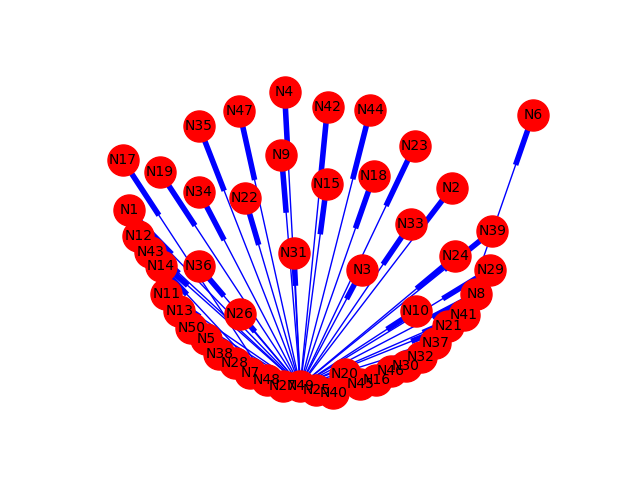
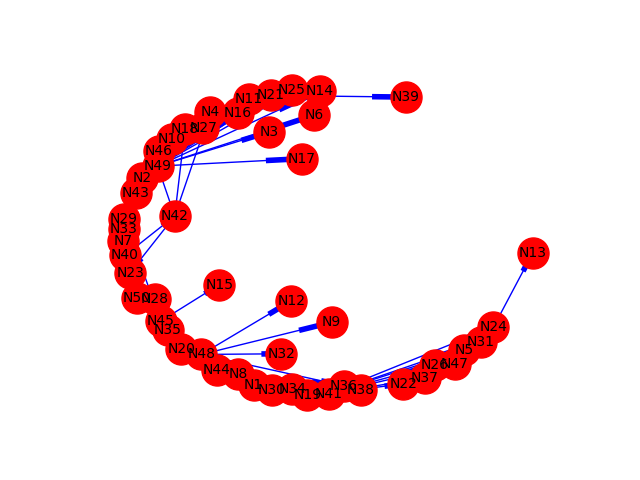
now got the graph.copy() to work, still uncovering hidden issues

Changed region(s): [[0.1562, 0.1562, 0.875, 0.875], [0.7812, 0.1875, 0.875, 0.3125]]

diff --git a/grapho.py b/grapho.py
@@ -45,25 +45,25 @@ def compute(infile, outfile):
     initGraph = addRandomVarNodesToGraph(newGraph, randomVars)
     optimGraph = optimizeGraph(initGraph, dataframe)
     oshow.plotGraph(optimGraph, outfile)
-    oshow.toString(optimGraph)
     oshow.write(outfile, optimGraph)
+    # oshow.toString(optimGraph)
     pass
 
 # OPTIMIZE
 # loop a limited number of times morphing graph into higher scoring shape
 # a minimum score gain is gauged before deciding to evolve the graph
 def optimizeGraph(graph, dataframe):
-    maxTries = 10
+    maxTries = 3
     attempt = 0
     initialScore = oscore.getScore(graph, dataframe, attempt)
-    bestGraph = graph
+    bestGraph = graph.copy()
     for trie in range(0, maxTries):
         attempt = attempt + 1
         for node in graph.nodes():
             bestGraph = getChangedGraph(bestGraph, node, dataframe)
     finalScore = oscore.getScore(bestGraph, dataframe, attempt)
     print "****** INITIAL SCORE: " + str(int(initialScore)) + ", FINAL SCORE: " + str(int(finalScore)) + " ******"
-    return graph
+    return bestGraph
 
 # MORPH
 # greedy iteration over the graph looking for a better shape than current
@@ -73,35 +73,45 @@ def getChangedGraph(graph, fromNode, dataframe):
     maxTries = 10
     attempt = 0
     minScoreGain = 10
-    initialGraph = graph
-    bestMoveGaph = graph    # greedily find the best graph after maxTries
+    initialGraph = graph.copy()
+    bestMoveGaph = graph.copy()    # greedily find the best graph after maxTries
     while True:
         randomNode = choice(graph.nodes())
         attempt = attempt + 1
         print "Attempt=" + str(attempt) + " at optimizing from node=" + str(fromNode)
         if attempt>maxTries:
             if int(oscore.getScore(bestMoveGaph, dataframe, attempt)) > int(oscore.getScore(initialGraph, dataframe, attempt)):
+                print "FOUND a graph optimization from node=" + str(fromNode) + "... " + str(oshow.toEdgesString(bestMoveGaph))
                 return bestMoveGaph # after many attempts, return the bestMoveGaph
             else:
+                print "NO better graph found from node=" + str(fromNode) + "... " + str(oshow.toEdgesString(initialGraph))
                 return initialGraph
-        if randomNode!=fromNode:   # connect only to a different node
-            if not graph.has_edge(fromNode, randomNode):     # connect only if the nodes are not connected either way
-                if not graph.has_edge(randomNode, fromNode):  # connect only if the nodes are not connected either way
-                    if len(oxnet.getRandomVarParents(randomNode, graph))==0:  # allow one parent for now
-                        tentativeGraph = graph
-                        tentativeGraph.add_edge(fromNode, randomNode)
-                        tentativeScore = oscore.getScore(tentativeGraph, dataframe, attempt)
-                        currentBestScore = oscore.getScore(bestMoveGaph, dataframe, attempt)
-                        delta = int(tentativeScore) - int(currentBestScore)
-                        print ">Evaluating new graph for better score: from=" + str(int(currentBestScore)) + " to=" + str(int(tentativeScore)) + \
-                              " GAIN=" + str(delta) + " adding EDGE=" + str(fromNode) +"-"+ str(randomNode)
-                        if int(delta) > int(minScoreGain):
-                            cycles = list(nx.simple_cycles(tentativeGraph))
-                            print "Potential Graph Cycles: " + str(cycles)
-                            if len(cycles)==0:
-                                if nx.is_directed_acyclic_graph(tentativeGraph)==False:
-                                    print "==> Switching graph candidate!"
-                                    bestMoveGaph = tentativeGraph
+        # if randomNode!=fromNode:   # connect only to a different node
+        if not graph.has_edge(fromNode, randomNode):     # connect only if the nodes are not connected either way
+            if not graph.has_edge(randomNode, fromNode):  # connect only if the nodes are not connected either way
+                if len(oxnet.getRandomVarParents(randomNode, graph))==0:  # allow one parent for now
+                    tentativeGraph = bestMoveGaph.copy()
+                    tentativeGraph.add_edge(fromNode, randomNode)
+                    print "TENTATIVE--> NODES: " + str(tentativeGraph.nodes()) + ", EDGES: " + str(tentativeGraph.edges())
+                    tentativeScore = oscore.getScore(tentativeGraph, dataframe, attempt)
+                    currentBestScore = oscore.getScore(bestMoveGaph, dataframe, attempt)
+                    delta = int(tentativeScore) - int(currentBestScore)
+                    print ">Evaluating new graph for better score: from=" + str(int(currentBestScore)) + " to=" + str(int(tentativeScore)) + \
+                          " GAIN=" + str(delta) + " adding EDGE=" + str(fromNode) +"-"+ str(randomNode)
+                    # if int(delta) > int(minScoreGain):
+                    cycles = list(nx.simple_cycles(tentativeGraph))
+                    print "Potential Graph Cycles: " + str(cycles)
+                    if len(cycles)==0:
+                        # if nx.is_directed_acyclic_graph(tentativeGraph)==False:
+                        print "==> Switching graph candidate!"
+                        bestMoveGaph = tentativeGraph.copy()
+                        # else: print "Did not adopt because it would cause a cycle in the graph..."
+                    # else: print "Not enough score gain to make the change..."
+                else: print "Did not pursue because the toNode already has a parent..."
+            else: print "Did not tackle because the nodes already shared an edge..."
+        else: print "Did not tackle because the nodes already shared an edge..."
+        # else: print "Did not try to connect same to/from nodes..."
+
 
 # ADD RANDOM VARIABLE NODES
 # len()

diff --git a/graphoshow.py b/graphoshow.py
@@ -34,15 +34,20 @@ import graphoxnet as oxnet
 
 # PRINT nodes, graphs, edges, neighbors
 def toString(graph):
-    print "GRAPH: {} ".format(graph.graph)
-    print "NODES: {}".format(graph.nodes())
-    print "EDGES: {}".format(graph.edges())
+    s = ""
+    s = s + "GRAPH: {} ".format(graph.graph)
+    s = s + "NODES: {}".format(graph.nodes)
+    s = s + "EDGES: {}".format(graph.edges)
     for node in graph.nodes():
-        print "{} EDGES: {}".format(node, graph[node])
-        print "{} NEIGHTBORS: {}".format(node, graph.neighbors(node))
+        s = s + "{} EDGES: {}".format(node, graph[node])
+        s = s + "{} NEIGHTBORS: {}".format(node, graph.neighbors(node))
+    return s
 
 def toGraphString(graph):
-    print "GRAPH: {} ".format(graph.graph)
+    return "GRAPH: {} ".format(graph.graph())
+
+def toEdgesString(graph):
+    return "EDGES: {} ".format(graph.edges())
 
 # PLOT graph: nodes, edges, labesl
 # https://stackoverflow.com/questions/8213522/when-to-use-cla-clf-or-close-for-clearing-a-plot-in-matplotlib
